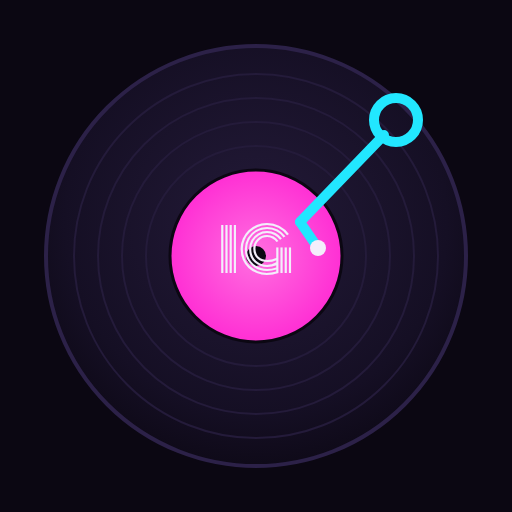
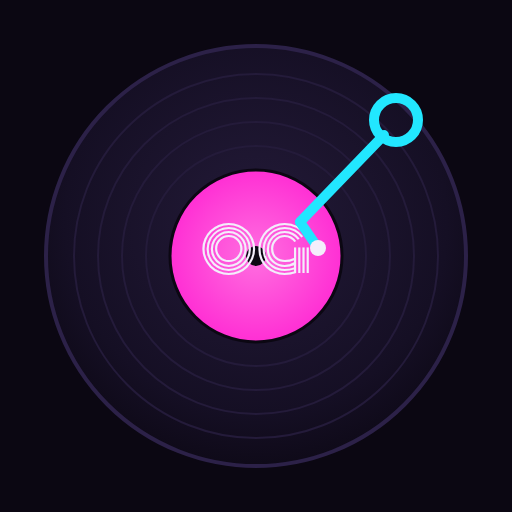
fix: rename app to OsmaGym and keep atletico47 systemd unit names
Renaming the units would make desplegar.sh restart a unit that does not
exist on the Pi and abort before the health check.

Changed region(s): [[0.375, 0.4375, 0.625, 0.5625]]

diff --git a/servidor-push/push.js b/servidor-push/push.js
@@ -1,5 +1,5 @@
 #!/usr/bin/env node
-/* IvannGym — servidor de notificaciones push
+/* OsmaGym — servidor de notificaciones push
  *
  *   npm install web-push            (en esta carpeta)
  *   node push.js --claves           genera las claves VAPID (solo la primera vez)
@@ -38,7 +38,7 @@ function guardarSubs(lista) { fs.writeFileSync(SUBS, JSON.stringify(lista, null,
 async function enviar(titulo, cuerpo) {
   const lista = subs();
   if (!lista.length) { console.log('No hay suscripciones. Pega el JSON de la app en suscripciones.json (array).'); return; }
-  const carga = JSON.stringify({ title: titulo, body: cuerpo, tag: 'ig', url: './index.html' });
+  const carga = JSON.stringify({ title: titulo, body: cuerpo, tag: 'og', url: './index.html' });
   const vivas = [];
   for (const s of lista) {
     try { await webpush.sendNotification(s, carga); vivas.push(s); console.log(new Date().toISOString(), 'enviada:', cuerpo); }
@@ -62,7 +62,7 @@ let AGENDA = {
 if (fs.existsSync(AGENDA_F)) { try { AGENDA = JSON.parse(fs.readFileSync(AGENDA_F, 'utf8')); } catch (e) { console.error('agenda.json no es válido, uso la agenda por defecto'); } }
 
 if (process.argv.includes('--probar')) {
-  enviar('IvannGym', 'Prueba: si ves esto, funciona.').then(() => process.exit(0));
+  enviar('OsmaGym', 'Prueba: si ves esto, funciona.').then(() => process.exit(0));
 } else {
   console.log('Planificador en marcha.');
   let ultimo = '';

diff --git a/sitio/sw.js b/sitio/sw.js
@@ -1,8 +1,8 @@
-/* IvannGym — service worker
+/* OsmaGym — service worker
    Guarda la app para que funcione sin cobertura y recibe las notificaciones push.
    Antes de commitear cambios en sitio/, sube la versión: scripts/version-sw.sh */
 
-const CACHE = 'ig-v2';
+const CACHE = 'og-v3';
 const ASSETS = [
   './',
   './index.html',
@@ -49,7 +49,7 @@ self.addEventListener('fetch', e => {
 });
 
 self.addEventListener('push', e => {
-  let d = { title: 'IvannGym', body: 'Toca moverse', tag: 'ig', url: './index.html' };
+  let d = { title: 'OsmaGym', body: 'Toca moverse', tag: 'og', url: './index.html' };
   try { if (e.data) d = Object.assign(d, e.data.json()); } catch (_) { if (e.data) d.body = e.data.text(); }
   e.waitUntil(self.registration.showNotification(d.title, {
     body: d.body, icon: './icon-192.png', badge: './icon-192.png', tag: d.tag, renotify: true,
@@ -68,6 +68,6 @@ self.addEventListener('notificationclick', e => {
 
 self.addEventListener('message', e => {
   if (e.data && e.data.tipo === 'probar') {
-    self.registration.showNotification('IvannGym', { body: e.data.texto || 'Las notificaciones funcionan.', icon: './icon-192.png', vibrate: [180, 90, 180] });
+    self.registration.showNotification('OsmaGym', { body: e.data.texto || 'Las notificaciones funcionan.', icon: './icon-192.png', vibrate: [180, 90, 180] });
   }
 });

diff --git a/sitio/index.html b/sitio/index.html
@@ -4,12 +4,12 @@
 <meta charset="utf-8">
 <meta name="viewport" content="width=device-width,initial-scale=1,viewport-fit=cover">
 <meta name="theme-color" content="#0B0712">
-<title>IvannGym</title>
+<title>OsmaGym</title>
 <link rel="manifest" href="manifest.webmanifest">
 <link rel="apple-touch-icon" href="apple-touch-icon.png">
 <meta name="apple-mobile-web-app-capable" content="yes">
 <meta name="apple-mobile-web-app-status-bar-style" content="black-translucent">
-<meta name="apple-mobile-web-app-title" content="IvannGym">
+<meta name="apple-mobile-web-app-title" content="OsmaGym">
 <meta name="mobile-web-app-capable" content="yes">
 <link rel="preconnect" href="https://fonts.googleapis.com">
 <link rel="preconnect" href="https://fonts.gstatic.com" crossorigin>
@@ -169,7 +169,7 @@ footer{border-top:1px solid var(--line);margin-top:30px;padding:16px 0 24px;font
 <body>
 <div class="wrap">
 <header>
-<div class="brand"><h1>Ivann<em>Gym</em></h1><span class="tag" id="today"></span></div>
+<div class="brand"><h1>Osma<em>Gym</em></h1><span class="tag" id="today"></span></div>
 <nav class="tabs" role="tablist">
 <button class="tab" role="tab" data-t="hoy" aria-selected="true" onclick="vw('hoy')">Hoy</button>
 <button class="tab" role="tab" data-t="tr" aria-selected="false" onclick="vw('tr')">Entreno</button>

diff --git a/sitio/app.js b/sitio/app.js
@@ -1,4 +1,4 @@
-/* IvannGym — vistas y arranque
+/* OsmaGym — vistas y arranque
  *
  * Cada pestaña tiene su función vXxx() que pinta a partir de S (motor.js) y de
  * la biblioteca (biblioteca.js). No hay framework: strings de HTML y onclick.
@@ -608,7 +608,7 @@ function estadoNotif(){
 function pedirNotif(){if(!('Notification' in window)){toast('Este navegador no las soporta',1);return}
  Notification.requestPermission().then(function(p){vAjustes();if(p==='granted'){toast('Notificaciones activadas');probarNotif()}else toast('Permiso denegado',1)})}
 function probarNotif(){if(Notification.permission!=='granted'){toast('Actívalas primero',1);return}
- if(swReg&&swReg.showNotification)swReg.showNotification('IvannGym',{body:'Funcionan.',icon:'icon-192.png',vibrate:[180,90,180]});else new Notification('IvannGym',{body:'Funcionan.'})}
+ if(swReg&&swReg.showNotification)swReg.showNotification('OsmaGym',{body:'Funcionan.',icon:'icon-192.png',vibrate:[180,90,180]});else new Notification('OsmaGym',{body:'Funcionan.'})}
 function suscribirPush(){
  var k=(($('vapid')||{}).value||'').trim();
  if(!k){toast('Pega primero la clave pública VAPID',1);return}

diff --git a/sitio/migrar.html b/sitio/migrar.html
@@ -3,7 +3,7 @@
 <head>
 <meta charset="utf-8">
 <meta name="viewport" content="width=device-width,initial-scale=1">
-<title>IvannGym · migrar datos</title>
+<title>OsmaGym · migrar datos</title>
 <style>
 body{background:#0B0712;color:#F3EEFB;font-family:system-ui,sans-serif;max-width:700px;margin:0 auto;padding:24px 16px;line-height:1.5}
 h1{font-size:22px}h2{font-size:16px;margin-top:28px;border-bottom:1px solid #241B3A;padding-bottom:6px}
@@ -13,7 +13,7 @@ p{color:#C9CFD8;font-size:14px}.ok{color:#22E7FF}.mal{color:#FF7A45}
 </style>
 </head>
 <body>
-<h1>IvannGym · migrar datos entre orígenes</h1>
+<h1>OsmaGym · migrar datos entre orígenes</h1>
 <p>localStorage es por origen: <code>https://host</code> y <code>https://host:PUERTO</code> no comparten nada. Esta página exporta el blob en un origen y lo importa en otro.</p>
 <h2>1. Exportar (en el origen viejo)</h2>
 <button onclick="exportar()">Exportar</button>

diff --git a/servidor-web.js b/servidor-web.js
@@ -1,5 +1,5 @@
 #!/usr/bin/env node
-/* IvannGym — servidor estático de la PWA + API
+/* OsmaGym — servidor estático de la PWA + API
  *
  * Sirve sitio/ en 127.0.0.1:8091 (solo loopback). Tailscale Serve pone el
  * HTTPS por delante. Mismo esquema que la PWA hermana, en otro puerto: otro
@@ -74,5 +74,5 @@ const servidor = http.createServer((req, res) => {
 });
 
 servidor.listen(PUERTO, HOST, () => {
-  console.log('IvannGym sirviendo ' + RAIZ + ' en http://' + HOST + ':' + PUERTO + (coach.configurado() ? ' · coach activo' : ' · coach sin configurar'));
+  console.log('OsmaGym sirviendo ' + RAIZ + ' en http://' + HOST + ':' + PUERTO + (coach.configurado() ? ' · coach activo' : ' · coach sin configurar'));
 });

diff --git a/tools/icono.html b/tools/icono.html
@@ -33,7 +33,7 @@ html,body{margin:0;background:#0B0712}
     <circle cx="256" cy="256" r="86" fill="url(#label)"/>
     <circle cx="256" cy="256" r="86" fill="none" stroke="#0B0712" stroke-width="3"/>
     <circle cx="256" cy="256" r="10" fill="#0B0712"/>
-    <text x="256" y="273" font-family="Monoton, 'Barlow Condensed', sans-serif" font-size="60" fill="#F3EEFB" text-anchor="middle">IG</text>
+    <text x="256" y="273" font-family="Monoton, 'Barlow Condensed', sans-serif" font-size="60" fill="#F3EEFB" text-anchor="middle">OG</text>
     <!-- tonearm -->
     <g stroke-linecap="round">
       <circle cx="396" cy="120" r="22" fill="none" stroke="#22E7FF" stroke-width="10"/>

diff --git a/sitio/biblioteca.js b/sitio/biblioteca.js
@@ -1,4 +1,4 @@
-/* IvannGym — biblioteca de ejercicios, plantillas, movilidad y comida
+/* OsmaGym — biblioteca de ejercicios, plantillas, movilidad y comida
  *
  * Todo lo que es DATO vive aquí. El motor (motor.js) decide qué entra en cada
  * sesión; las vistas (app.js) lo pintan. Cambiar un ejercicio es tocar este

diff --git a/sitio/storage-remote.js b/sitio/storage-remote.js
@@ -1,4 +1,4 @@
-/* IvannGym — puente de almacenamiento contra el servidor de la Raspberry
+/* OsmaGym — puente de almacenamiento contra el servidor de la Raspberry
  *
  * La app comprueba en save()/load() si existe window.storage y, si está, lo usa
  * en lugar de localStorage. Este archivo define ese window.storage.

diff --git a/sitio/motor.js b/sitio/motor.js
@@ -1,4 +1,4 @@
-/* IvannGym — estado, persistencia y motor de decisiones
+/* OsmaGym — estado, persistencia y motor de decisiones
  *
  * Aquí no se pinta nada. Todo lo que decide qué toca hoy, qué ejercicio entra,
  * cuánto peso y cuántas series vive en este fichero, para poder leerlo de

diff --git a/api-estado.js b/api-estado.js
@@ -1,4 +1,4 @@
-/* IvannGym — almacén de estado en SQLite
+/* OsmaGym — almacén de estado en SQLite
  *
  * La app guarda todo su estado en un único blob JSON bajo la clave 'a47v1'.
  * Aquí vive la copia buena, compartida por todos los dispositivos. Cada

diff --git a/api-coach.js b/api-coach.js
@@ -1,4 +1,4 @@
-/* IvannGym — proxy del Coach
+/* OsmaGym — proxy del Coach
  *
  * La app NO habla con la API de Claude directamente: lo hace este proceso,
  * con la clave leída de coach.json (fuera de git) o de ANTHROPIC_API_KEY.
